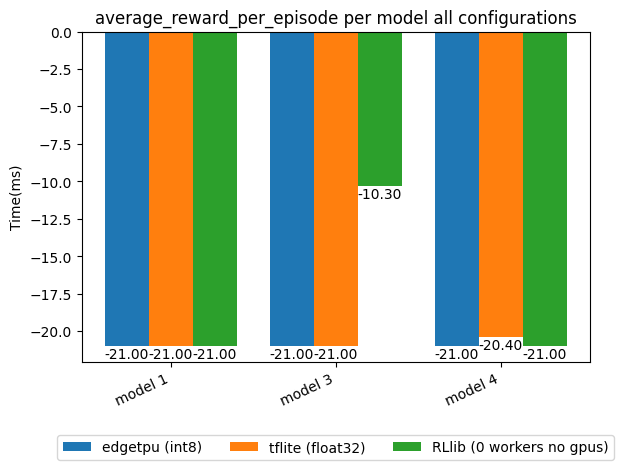
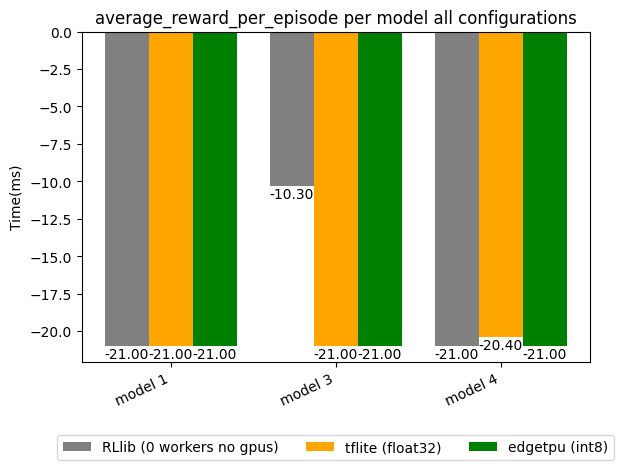
graph changes

diff --git a/result_analysis_scripts/rollout_results_analizer_artecslab001.py b/result_analysis_scripts/rollout_results_analizer_artecslab001.py
@@ -42,15 +42,16 @@ def get_data_models(name, aggregated_results_name, model_ids, directory, save_di
     return aggregated_results
 
 def get_data(model_ids, directory):
-    descriptions = ['edgetpu', 'tflite', 'rllib']
+    descriptions = ['rllib', 'tflite', 'edgetpu']
     dir = dirname(dirname(abspath(__file__)))
     save_directory = dir + '/result_analysis/rollout_results/artecslab001'
     if not os.path.exists(save_directory):
         os.mkdir(save_directory)
     names = ['model{}_' + i + '.csv' for i in descriptions]
     aggregated_names = ['results_artecslab001_{}.csv'.format(i) for i in descriptions]
-    aggregated_results = [get_data_models(names[i], aggregated_names[i], model_ids, directory, save_directory) for i in range(0, len(descriptions)-1)]
-    aggregated_results.append(get_data_models(names[2], aggregated_names[2], model_ids, directory, save_directory, mil=True))
+    aggregated_results=[get_data_models(names[0], aggregated_names[0], model_ids, directory, save_directory, mil=True)]
+    for i in range(1, len(descriptions)):
+        aggregated_results.append(get_data_models(names[i], aggregated_names[i], model_ids, directory, save_directory))
 
     model_names = ['model {}'.format(i) for i in model_ids]
     vars = list(aggregated_results[0][0].keys())
@@ -70,7 +71,7 @@ def get_data(model_ids, directory):
 
         title_combined = var + ' per model all configurations'
         save_name_combined = dir + '/result_analysis/rollout_results/artecslab001/graphs/'+ var + '_per_model_all_descr.png' 
-        plot_results.plot_bars_multiple(model_names, var_values_list, title_combined, save_name_combined, ['edgetpu (int8)', 'tflite (float32)', 'RLlib (0 workers no gpus)'], y_label='Time(ms)')
+        plot_results.plot_bars_multiple(model_names, var_values_list, title_combined, save_name_combined, ['RLlib (0 workers no gpus)', 'tflite (float32)', 'edgetpu (int8)'], y_label='Time(ms)')
 
     '''
     for i in range(0, len(descriptions)-1):

diff --git a/result_analysis_scripts/plot_results.py b/result_analysis_scripts/plot_results.py
@@ -60,8 +60,9 @@ def plot_bars_multiple(bars, values, name, save_name, labels,y_label=None):
     fig, ax =plt.subplots()
     pos =np.arange(len(bars))
     width = 0.8/len(values)
+    colors=['gray', 'orange', 'green']
     for i in range (0, len(values)):
-        rects=ax.bar(pos + width*i, values[i], label = labels[i], width = width)
+        rects=ax.bar(pos + width*i, values[i], label = labels[i], width = width, color=colors[i])
         ax.bar_label(rects, labels=['{:.2f}'.format(float(j)) for j in values[i]], padding=1)
     plt.xticks(pos + len(values)*width/2-width/2, bars)
     ax.set_title(name, loc='center', wrap=True)
